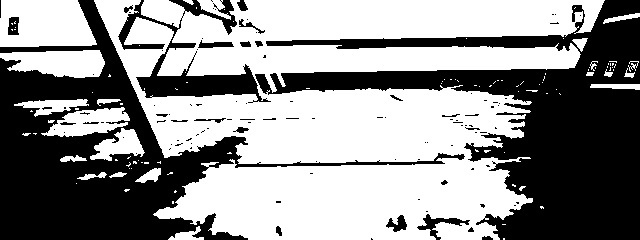
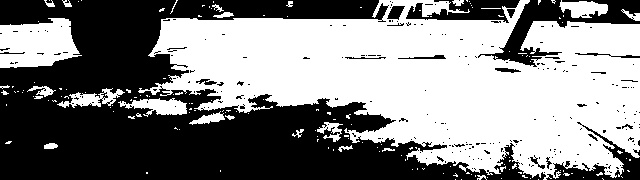
blue side template matching working with name BlueSphereTemplate

diff --git a/TeamCode/src/main/java/org/firstinspires/ftc/teamcode/src/attachments/OpenCV.java b/TeamCode/src/main/java/org/firstinspires/ftc/teamcode/src/attachments/OpenCV.java
@@ -5,13 +5,25 @@ import org.opencv.core.Core;
 import org.opencv.core.CvType;
 import org.opencv.core.Mat;
 import org.opencv.core.Point;
+import org.opencv.core.Scalar;
 import org.opencv.imgcodecs.Imgcodecs;
 import org.opencv.imgproc.Imgproc;
 
 public class OpenCV {
+    public Point templateMatchingHalfImg(Mat img, Mat templ) {
+        Mat templRight = templ.submat(0, templ.rows(), templ.cols() / 2, templ.cols());
+        Mat templLeft = templ.submat(0, templ.rows(), 0, templ.cols() / 2);
+        Point left = templateMatching(img, templLeft);
+        Point right = templateMatching(img, templRight);
+        if (left.y > right.y) {
+            return left;
+        } else {
+            return right;
+        }
+    }
     public Point templateMatching(Mat img, Mat templ){
         //These should be able to vary
-        int match_method = 1;
+        int match_method = Imgproc.TM_SQDIFF;
         Boolean use_mask = false;
 
         Mat mask = new Mat();
@@ -22,7 +34,7 @@ public class OpenCV {
         int result_rows = img.rows() - templ.rows() + 1;
         result.create(result_rows, result_cols, CvType.CV_32FC1);
         Boolean method_accepts_mask = (Imgproc.TM_SQDIFF == match_method || match_method == Imgproc.TM_CCORR_NORMED);
-        RobotLog.dd("OpenCV", "img type %d", img.type());
+//        RobotLog.dd("OpenCV", "img type %d", img.type());
         if (use_mask && method_accepts_mask) {
             Imgproc.matchTemplate(img, templ, result, match_method, mask);
         } else {
@@ -36,7 +48,7 @@ public class OpenCV {
         } else {
             matchLoc = mmr.maxLoc;
         }
-
+//        Point output = new Point(matchLoc.x, result.get((int) matchLoc.x, (int) matchLoc.y)[0]);
 //        Imgcodecs.imwrite(fileName, result);
         return matchLoc;
     }
@@ -53,8 +65,8 @@ public class OpenCV {
 
         Mat circles = new Mat();
 
-        Imgproc.HoughCircles(img, circles, Imgproc.HOUGH_GRADIENT, 1.0, (double) img.rows()/16,
-                100.0, 1.0, 20, 50);
+        Imgproc.HoughCircles(img, circles, Imgproc.HOUGH_GRADIENT_ALT, 1.5, (double) img.rows()/16,
+                100.0, 1.0, 40, 70);
 
         double[] d = new double[circles.cols()];
         for (int i = 0; i < circles.cols(); i++) {
@@ -72,11 +84,11 @@ public class OpenCV {
         double adjRows = (double) img.rows() / 240;
         double adjCols = (double) img.cols() / 320;
         int rowStart = 100;
-        int rowEnd = 150;
-        Mat left = img.submat(rowStart, rowEnd, 0, 55);
-        Mat mid = img.submat(70, 121, 130, 181);
-        Mat right = img.submat(rowStart, rowEnd, 270, 319);
-        
+        int rowEnd = 300;
+        Mat left = img.submat(rowStart, rowEnd, 30, 175);
+        Mat mid = img.submat(rowStart, 250, 300, 400);
+        Mat right = img.submat(rowStart, rowEnd, 500, 639);
+
         int colour;
         if (detectRed) {
             colour = 2;
@@ -95,8 +107,12 @@ public class OpenCV {
         double rightColour = Core.mean(right).val[colour] / Core.mean(rightGray).val[0];
         double midColour = Core.mean(mid).val[colour] / Core.mean(midGray).val[0];
         double leftColour = Core.mean(left).val[colour] / Core.mean(leftGray).val[0];
+        Imgproc.rectangle(img, new Point(30, rowStart), new Point(175, rowEnd), new Scalar(200, 0, 0));
+        Imgproc.rectangle(img, new Point(300, rowStart), new Point(400, 250), new Scalar(0, 200, 0));
+        Imgproc.rectangle(img, new Point(500, rowStart), new Point(639, rowEnd), new Scalar(0, 0, 200));
+        Imgcodecs.imwrite("src/main/java/org/firstinspires/ftc/teamcode/src/attachments/data/rects.jpg", img);
 
-        Point result;
+        Point result = null;
         if (rightColour > midColour && rightColour > leftColour) {
             result = new Point(249 * adjCols, 170);
         } else if (midColour > leftColour) {

diff --git a/TeamCode/src/main/java/org/firstinspires/ftc/teamcode/src/tests/attachments/TestOpenCV.java b/TeamCode/src/main/java/org/firstinspires/ftc/teamcode/src/tests/attachments/TestOpenCV.java
@@ -17,16 +17,16 @@ import java.io.File;
 public class TestOpenCV {
 
     @Test
-    public void testItemExists(){
+    public void testTemplateMatching(){
 //        OpenCVLoader.initDebug();
 
         int i = CvType.CV_16UC4;
-        String pathTemplate = "src/main/java/org/firstinspires/ftc/teamcode/src/attachments/data/template.jpg";
+        String pathTemplate = "src/main/java/org/firstinspires/ftc/teamcode/src/attachments/data/BlueSphereTemplate.png";
 
         File fileTemplate = new File(pathTemplate);
         String absolutePathTemplate = fileTemplate.getAbsolutePath();
 
-        String pathImg = "src/main/java/org/firstinspires/ftc/teamcode/src/attachments/data/imgL.jpg";
+        String pathImg = "src/main/java/org/firstinspires/ftc/teamcode/src/attachments/data/BlueSphere2Inches0.png";
 
         File fileImg = new File(pathImg);
         String absolutePathImg = fileImg.getAbsolutePath();
@@ -48,17 +48,18 @@ public class TestOpenCV {
 
 
         Point resultL = openCv.templateMatching(img, templ);
-        img = loadImage("imgR");
-        Point resultR = openCv.templateMatching(img, templ);
-        img = loadImage("imgM");
-        Point resultM = openCv.templateMatching(img, templ);
-        Assert.assertEquals(250, resultL.y, 10);
+        Assert.assertEquals(100, resultL.x, 0);
+//        img = loadImage("imgR");
+//        Point resultR = openCv.templateMatching(img, templ);
+//        img = loadImage("imgM");
+//        Point resultM = openCv.templateMatching(img, templ);
+//        Assert.assertEquals(250, resultL.y, 10);
     }
 
     @Test
     public void testHoughCircles() {
         for (int i = 0; i < 3; i++) {
[2 lines of base64/hex data omitted]
 
             File fileImg = new File(pathImg);
             String absolutePathImg = fileImg.getAbsolutePath();
@@ -77,14 +78,16 @@ public class TestOpenCV {
 
             Mat img = Imgcodecs.imread(absolutePathImg, Imgcodecs.IMREAD_COLOR);
 
-            Point result = openCv.ROI(img, false);
+            Point result = openCv.houghCircles(img);
+
+//            Imgcodecs.imwrite("src/main/java/org/firstinspires/ftc/teamcode/src/attachments/data/threshold.jpg", )
 
             if (i == 0) {
-                Assert.assertEquals(310, result.x, 20);
+                Assert.assertEquals(33, result.x, 20);
             } else if (i == 1) {
-                Assert.assertEquals(174, result.x, 20);
+                Assert.assertEquals(174*2, result.x, 20);
             } else {
-                Assert.assertEquals(30, result.x, 50);
+                Assert.assertEquals(249*2, result.x, 50);
             }
         }
     }

diff --git a/TeamCode/src/main/java/org/firstinspires/ftc/teamcode/src/attachments/DetectPropActions.java b/TeamCode/src/main/java/org/firstinspires/ftc/teamcode/src/attachments/DetectPropActions.java
@@ -38,7 +38,7 @@ public class DetectPropActions {
             @Override
             public void onOpened()
             {
-                webcam.startStreaming(320, 240, OpenCvCameraRotation.UPRIGHT);
+                webcam.startStreaming(640, 360, OpenCvCameraRotation.UPRIGHT);
             }
 
             @Override
@@ -102,9 +102,9 @@ public class DetectPropActions {
             if (detectionNumber != priorDetectionNumber) {
                 priorDetectionNumber = detectionNumber;
                 wherePropState ++;
-                if (result.x < 60 || result.x > 250) {
+                if (result.x < 230) {
                     leftCount++;
-                } else if (result.x < 200) {
+                } else if (result.x < 480) {
                     midCount++;
                 } else {
                     rightCount++;
@@ -151,8 +151,10 @@ public class DetectPropActions {
             Imgproc.cvtColor(input, input, Imgproc.COLOR_BGR2RGB);
 
             Core.rotate(input, input, Core.ROTATE_180);
+
+            input.submat(100, input.rows(), 0, input.cols());
             
-            result = openCV.templateMatching(input, templ);
+            result = openCV.templateMatchingHalfImg(input, templ);
 
             RobotLog.dd("OpenCV", "Point X %f", result.x);
             RobotLog.dd("OpenCV", "Point Y %f", result.y);

diff --git a/TeamCode/src/main/java/org/firstinspires/ftc/teamcode/src/JamesTesting.java b/TeamCode/src/main/java/org/firstinspires/ftc/teamcode/src/JamesTesting.java
@@ -22,18 +22,17 @@ public class JamesTesting extends HelperActions {
     public void runOpMode() {
        // servo = hardwareMap.get(Servo.class, "intakeRight");
         servo = hardwareMap.get(Servo.class, ConfigConstants.LEFT_RELEASE);
+        DetectPropActions detectPropActions = new DetectPropActions(hardwareMap, "BlueSphereTemplate", true);
+        detectPropActions.setToTemplateMatching();
         telemetry.addData("Waiting for start", "");
         telemetry.update();
         waitForStart();
 
-        if (opModeIsActive()) {
-            if (gamepad1.x) {
-                servo.setPosition(1.0);
-            } else if (gamepad1.y) {
-                servo.setPosition(0.0);
-            }
-
-
+        while (opModeIsActive()) {
+            detectPropActions.whereProp(10);
+            while (detectPropActions.whereProp(10) == "") ;
+            telemetry.addData("prop place", detectPropActions.propPlace);
+            telemetry.update();
         }
     }
 }
